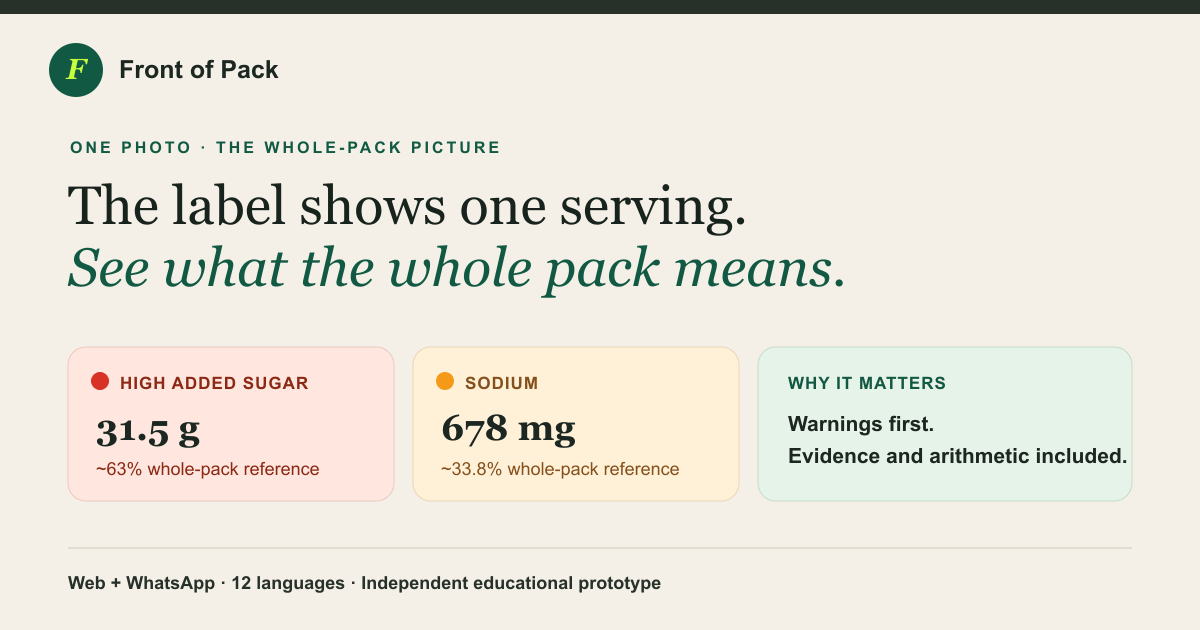
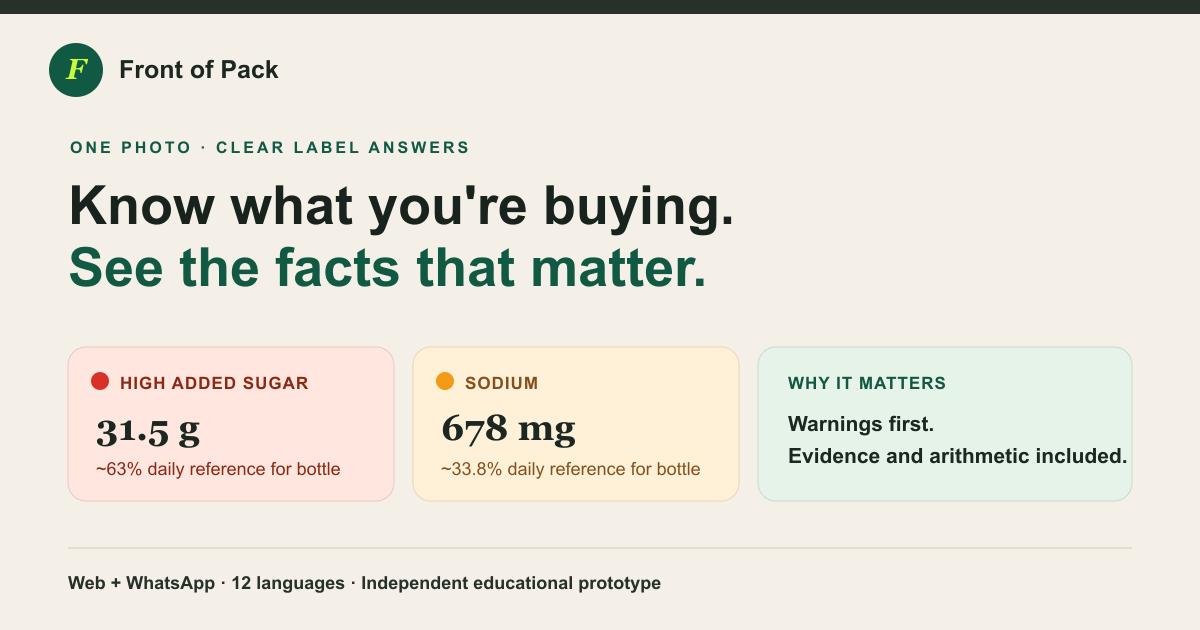
improve submission homepage positioning

diff --git a/src/app/globals.css b/src/app/globals.css
@@ -1,27 +1,36 @@
 @import "tailwindcss";
 
-:root { --ink:#19251f; --muted:#5f6b64; --paper:#f7f4ec; --cream:#eee8db; --green:#174f3b; --lime:#d6ff56; --orange:#e9602b; --line:rgba(25,37,31,.16); }
+:root { --ink:#19251f; --muted:#5f6b64; --paper:#f7f4ec; --cream:#eee8db; --green:#174f3b; --lime:#d6ff56; --orange:#e9602b; --line:rgba(25,37,31,.16); --font-ui:system-ui,-apple-system,"Segoe UI",sans-serif; }
 * { box-sizing:border-box; }
 html { overflow-x:clip; scroll-behavior:smooth; }
-body { margin:0; overflow-x:clip; background:var(--paper); color:var(--ink); font-family:Arial,Helvetica,sans-serif; -webkit-font-smoothing:antialiased; }
+body { margin:0; overflow-x:clip; background:var(--paper); color:var(--ink); font-family:var(--font-ui); -webkit-font-smoothing:antialiased; }
 a { color:inherit; text-decoration:none; }
 button,input,select { font:inherit; }
 textarea { font:inherit; }
 button,select,label { -webkit-tap-highlight-color:transparent; }
 .site-header { align-items:center; display:flex; justify-content:space-between; margin:auto; max-width:1280px; padding:22px 28px; }
 .brand,.footer-brand { align-items:center; display:flex; font-size:17px; font-weight:800; gap:10px; letter-spacing:-.02em; }
-.brand-mark { align-items:center; background:var(--green); border-radius:50% 50% 44% 56%; color:var(--lime); display:inline-flex; font-family:Georgia,serif; font-size:19px; font-style:italic; height:36px; justify-content:center; transform:rotate(-5deg); width:36px; }
-nav { align-items:center; display:flex; font-size:14px; font-weight:700; gap:32px; }
+.brand-mark { align-items:center; background:var(--green); border-radius:50%; color:var(--lime); display:inline-flex; font-size:18px; font-style:italic; height:36px; justify-content:center; width:36px; }
+nav { align-items:center; display:flex; font-size:14px; font-weight:700; }
 nav a { border-bottom:1px solid transparent; padding:8px 0; }
 nav a:hover { border-bottom-color:var(--ink); }
-.nav-action { background:var(--green); border:0!important; border-radius:999px; color:white; padding:11px 19px; }
-.hero { display:grid; gap:clamp(42px,7vw,100px); grid-template-columns:minmax(0,1.05fr) minmax(390px,.75fr); margin:auto; max-width:1280px; min-height:680px; padding:74px 28px 94px; }
-.hero-copy { align-self:center; }
+.nav-action { align-items:center; background:var(--green); border:0!important; border-radius:999px; color:white; display:flex; gap:9px; padding:11px 18px; }
+.whatsapp-icon { flex:0 0 auto; height:21px; width:21px; }.whatsapp-icon-bubble { fill:var(--lime); }.whatsapp-icon-phone { fill:var(--green); }
+.hero { align-items:center; display:grid; gap:clamp(54px,6vw,82px); grid-template-columns:minmax(0,1fr) minmax(410px,.76fr); margin:auto; max-width:1280px; min-height:650px; padding:64px 28px 88px; }
+.hero-copy { max-width:690px; }
 .eyebrow { align-items:center; color:var(--green); display:flex; font-size:12px; font-weight:800; gap:10px; letter-spacing:.13em; margin:0 0 19px; text-transform:uppercase; }
 .eyebrow span { background:var(--orange); border-radius:50%; height:7px; width:7px; }
-h1 { font-family:Georgia,"Times New Roman",serif; font-size:clamp(55px,6.5vw,92px); font-weight:400; letter-spacing:-.055em; line-height:.96; margin:0; max-width:780px; }
-h1 em { color:var(--green); font-weight:400; }
+h1 { font-family:var(--font-ui); font-size:clamp(52px,5.6vw,78px); font-weight:650; letter-spacing:-.06em; line-height:.98; margin:0; max-width:720px; }
+h1 em { color:var(--green); font-style:normal; font-weight:650; }
 .hero-intro { color:var(--muted); font-size:clamp(18px,2vw,22px); line-height:1.55; margin:32px 0; max-width:640px; }
+.hero-actions { align-items:center; display:flex; flex-wrap:wrap; gap:18px; margin:0 0 30px; }
+.whatsapp-primary { align-items:center; background:var(--green); border-radius:14px; box-shadow:0 12px 30px rgba(23,79,59,.18); color:white; display:flex; gap:11px; min-height:58px; padding:11px 18px; transition:transform .18s ease,box-shadow .18s ease; }
+.whatsapp-primary:hover { box-shadow:0 16px 34px rgba(23,79,59,.25); transform:translateY(-2px); }
+.whatsapp-primary .whatsapp-icon { height:23px; width:23px; }
+.whatsapp-primary>span { font-size:14px; font-weight:750; }
+.web-secondary { align-items:center; border-bottom:1px solid var(--line); display:flex; font-size:12px; font-weight:750; gap:7px; padding:8px 0; }
+.down-arrow { fill:none; height:15px; stroke:currentColor; stroke-linecap:round; stroke-linejoin:round; stroke-width:2; width:15px; }
+.web-secondary:hover { border-bottom-color:var(--green); color:var(--green); }
 .trust-row { border-top:1px solid var(--line); display:flex; flex-wrap:wrap; gap:12px 28px; padding-top:22px; }
 .trust-row span { font-size:13px; font-weight:700; }
 .trust-row span::before { color:var(--orange); content:"✓"; margin-right:8px; }
@@ -29,7 +38,7 @@ h1 em { color:var(--green); font-weight:400; }
 .upload-card::before { background:var(--lime); border-radius:18px; content:""; height:96%; left:14px; position:absolute; top:18px; transform:rotate(3deg); width:98%; z-index:-1; }
 .card-heading { align-items:flex-start; display:flex; justify-content:space-between; margin-bottom:28px; }
 .step-label { color:var(--orange); font-size:11px; font-weight:800; letter-spacing:.13em; margin:0 0 5px; text-transform:uppercase; }
-.card-heading h2 { font-family:Georgia,serif; font-size:28px; font-weight:400; margin:0; }
+.card-heading h2 { font-family:var(--font-ui); font-size:27px; font-weight:650; letter-spacing:-.035em; margin:0; }
 .private-pill { background:#edf6f0; border-radius:999px; color:var(--green); font-size:10px; font-weight:800; padding:7px 10px; text-transform:uppercase; }
 .language-field { display:block; margin-bottom:19px; }
 .language-field>span { display:block; font-size:13px; font-weight:800; margin-bottom:7px; }
@@ -49,10 +58,10 @@ h1 em { color:var(--green); font-weight:400; }
 .primary-button svg { fill:none; height:18px; stroke:currentColor; stroke-linecap:round; stroke-linejoin:round; stroke-width:1.8; width:18px; }
 .upload-note { color:var(--muted); font-size:10px; margin:10px 0 0; text-align:center; }
 .analysis-message { color:var(--green); font-size:12px; font-weight:700; margin:12px 0 0; text-align:center; }
-.demo-row { display:grid; gap:8px; grid-column:1/-1; grid-template-columns:auto repeat(4,1fr); margin-top:-22px; }.demo-row>span { align-self:center; color:var(--muted); font-size:11px; font-weight:800; text-transform:uppercase; }.demo-row button { background:white; border:1px solid var(--line); border-radius:10px; cursor:pointer; display:grid; gap:3px; padding:10px 12px; text-align:left; }.demo-row button:hover { border-color:var(--green); }.demo-row small { color:var(--muted); }
+.demo-row { display:grid; gap:8px; grid-column:1/-1; grid-template-columns:repeat(4,1fr); margin-top:-22px; }.demo-heading { align-items:end; display:flex; gap:12px; grid-column:1/-1; justify-content:space-between; margin-bottom:3px; }.demo-heading strong { font-size:13px; }.demo-heading span { color:var(--muted); font-size:11px; }.demo-row button { background:white; border:1px solid var(--line); border-radius:10px; cursor:pointer; display:grid; gap:3px; padding:10px 12px; text-align:left; }.demo-row button:hover { border-color:var(--green); }.demo-row small { color:var(--muted); }
 .demo-thumb { background-position:center; background-size:cover; border-radius:6px; height:54px; width:100%; }
 .analysis-result { background:white; border:1px solid var(--line); border-radius:24px; grid-column:1/-1; margin-top:-35px; padding:clamp(24px,4vw,48px); }
-.analysis-result h2 { font-family:Georgia,serif; font-size:clamp(30px,4vw,48px); font-weight:400; margin:0; }
+.analysis-result h2 { font-family:var(--font-ui); font-size:clamp(30px,4vw,48px); font-weight:650; letter-spacing:-.04em; margin:0; }
 .analysis-demo-input { background:#f5f2ea; border:1px solid var(--line); border-radius:14px; display:grid; gap:8px; margin:20px 0 0; max-width:440px; padding:12px; }
 .analysis-demo-input-frame { height:min(52vh,500px); position:relative; width:100%; }
 .analysis-demo-input-frame img { object-fit:contain; }
@@ -61,7 +70,7 @@ h1 em { color:var(--green); font-weight:400; }
 .analysis-result-stats { display:flex; flex-wrap:wrap; gap:8px; margin-top:16px; }.analysis-result-stats span { background:#f1efe8; border-radius:999px; color:var(--muted); font-size:10px; font-weight:700; padding:7px 10px; }.analysis-result-stats b { color:var(--ink); }
 .analysis-truncated { background:#fff1d8; border-radius:8px; color:#85501c; font-size:12px; font-weight:700; padding:10px 12px; }
 .analysis-callout { background:#edf6f0; border-left:4px solid var(--green); border-radius:8px; color:var(--ink); font-size:16px; line-height:1.55; margin:24px 0 0; padding:15px 17px; }
-.analysis-verdict { color:var(--ink)!important; display:grid; font-family:Georgia,serif; font-size:20px!important; gap:5px; margin:20px 0 0; }.analysis-verdict strong { color:var(--orange); font-family:Arial,sans-serif; font-size:10px; letter-spacing:.1em; text-transform:uppercase; }
+.analysis-verdict { color:var(--ink)!important; display:grid; font-size:20px!important; gap:5px; margin:20px 0 0; }.analysis-verdict strong { color:var(--orange); font-size:10px; letter-spacing:.1em; text-transform:uppercase; }
 .analysis-indicator { border-radius:10px; display:grid; gap:5px; margin-top:18px; padding:14px; }.analysis-indicator strong { font-size:12px; letter-spacing:.06em; }.analysis-indicator span { font-size:14px; line-height:1.45; }.indicator-needs_attention { background:#ffe7df; color:#8b2915; }.indicator-some_caution { background:#fff1d8; color:#85501c; }.indicator-no_major_concern { background:#e5f3e9; color:var(--green); }.indicator-not_enough_information { background:#efede8; color:var(--muted); }.analysis-profile { margin:0!important; }
 .analysis-check-strip { display:grid; gap:6px; grid-template-columns:repeat(4,1fr); margin-top:18px; }.analysis-check-strip span { align-items:center; background:#f1efe8; border-radius:8px; display:flex; font-size:12px; gap:6px; justify-content:space-between; padding:9px; }.analysis-check-strip b { font-size:10px; }.analysis-check-strip .check-alert { background:#fff0df; color:#9a4d24; }.analysis-check-strip .check-pass { background:#edf6f0; color:var(--green); }.analysis-check-strip .check-unknown { color:var(--muted); }
 .analysis-items { display:grid; gap:18px; grid-template-columns:repeat(auto-fit,minmax(280px,1fr)); margin:30px 0; }
@@ -70,7 +79,7 @@ h1 em { color:var(--green); font-weight:400; }
 .analysis-item-heading>span { color:var(--orange); font-size:11px; font-weight:800; text-transform:uppercase; }
 .analysis-badges { display:flex; flex-wrap:wrap; gap:6px; justify-content:flex-end; }
 .analysis-badges b { background:#edf0ea; border-radius:999px; color:var(--muted); font-size:9px; font-weight:800; padding:5px 8px; text-transform:uppercase; }
-.analysis-items h3 { font-family:Georgia,serif; font-size:25px; font-weight:400; margin:16px 0 8px; }
+.analysis-items h3 { font-size:25px; font-weight:650; letter-spacing:-.03em; margin:16px 0 8px; }
 .analysis-items p { color:var(--muted); font-size:13px; line-height:1.55; }
 .shopper-indicators { display:grid; gap:10px; margin-top:18px; }
 .shopper-indicator { border-radius:10px; display:grid; gap:5px; padding:14px 15px; }
@@ -93,6 +102,9 @@ h1 em { color:var(--green); font-weight:400; }
 .rating-card summary { color:var(--green); cursor:pointer; font-size:11px; font-weight:800; }
 .rating-card ul { list-style:none; margin:8px 0 0; padding:0; }
 .rating-card li { color:var(--muted); font-size:10px; line-height:1.45; padding:3px 0; }
+.rating-details { background:#f3f0e8; border:1px solid var(--line); border-radius:10px; margin-top:18px; padding:12px 14px; }
+.rating-details>summary { color:var(--green); cursor:pointer; font-size:11px; font-weight:800; }
+.rating-details>div { display:grid; gap:7px; margin-top:12px; }.rating-details strong { font-size:14px; }.rating-details p,.rating-details span { color:var(--muted); font-size:11px; margin:0; }.rating-details ul { list-style:none; margin:0; padding:0; }.rating-details li { color:var(--muted); font-size:10px; line-height:1.45; padding:2px 0; }
 .analysis-summary { font-size:15px!important; }
 .analysis-key-findings { border-top:1px solid var(--line); margin-top:20px; padding-top:18px; }
 .analysis-key-findings h4,.analysis-evidence h4 { font-size:11px; letter-spacing:.1em; margin:0 0 12px; text-transform:uppercase; }
@@ -126,12 +138,12 @@ h1 em { color:var(--green); font-weight:400; }
 .analysis-disclaimer { color:var(--muted); display:block; line-height:1.55; }
 .section { margin:auto; max-width:1280px; padding:105px 28px; }
 .journey { border-top:1px solid var(--line); display:grid; gap:80px; grid-template-columns:.8fr 1.2fr; }
-.section-heading h2,.action-intro h2,.whatsapp-copy h2 { font-family:Georgia,serif; font-size:clamp(38px,4.4vw,62px); font-weight:400; letter-spacing:-.04em; line-height:1.04; margin:0; }
+.section-heading h2,.action-intro h2,.whatsapp-copy h2 { font-size:clamp(38px,4.4vw,62px); font-weight:650; letter-spacing:-.05em; line-height:1.04; margin:0; }
 .section-heading>p:last-child,.split-heading>p,.action-intro>p:last-child,.whatsapp-copy>p { color:var(--muted); font-size:16px; line-height:1.7; margin:24px 0 0; max-width:520px; }
 .steps { list-style:none; margin:0; padding:0; }
 .steps li { border-top:1px solid var(--line); display:grid; gap:25px; grid-template-columns:46px 1fr; padding:25px 0; }
 .steps li:last-child { border-bottom:1px solid var(--line); }
-.steps li>span,.category-number { color:var(--orange); font-family:Georgia,serif; font-size:15px; font-style:italic; }
+.steps li>span,.category-number { color:var(--orange); font-size:15px; font-style:italic; }
 .steps h3,.category-grid h3,.action-list h3 { font-size:19px; margin:0 0 8px; }
 .steps p,.category-grid p,.action-list p { color:var(--muted); font-size:14px; line-height:1.6; margin:0; }
 .coverage { background:var(--cream); max-width:none; padding-left:max(28px,calc((100vw - 1224px)/2)); padding-right:max(28px,calc((100vw - 1224px)/2)); }
@@ -140,7 +152,7 @@ h1 em { color:var(--green); font-weight:400; }
 .output-showcase { border-top:1px solid var(--line); }
 .output-grid { display:grid; gap:12px; grid-template-columns:repeat(3,1fr); margin-top:50px; }
 .output-grid article { background:white; border:1px solid var(--line); border-radius:15px; min-height:190px; padding:22px; }
-.output-grid article>span { color:var(--orange); font-family:Georgia,serif; font-size:13px; font-style:italic; }
+.output-grid article>span { color:var(--orange); font-size:13px; font-style:italic; }
 .output-grid h3 { font-size:18px; margin:45px 0 8px; }.output-grid p { color:var(--muted); font-size:13px; line-height:1.55; margin:0; }
 .category-grid { display:grid; gap:1px; grid-template-columns:repeat(4,1fr); list-style:none; margin:62px 0 0; padding:0; }
 .category-grid li { background:rgba(255,255,255,.55); min-height:210px; padding:25px; }
@@ -153,7 +165,7 @@ h1 em { color:var(--green); font-weight:400; }
 .action-intro>p:last-child { color:rgba(255,255,255,.65); }
 .action-list article { align-items:start; border-top:1px solid rgba(255,255,255,.2); display:grid; gap:25px; grid-template-columns:42px 1fr; padding:24px 0; }
 .action-list article:last-child { border-bottom:1px solid rgba(255,255,255,.2); }
-.action-list article>span { color:var(--lime); font-family:Georgia,serif; font-style:italic; }
+.action-list article>span { color:var(--lime); font-style:italic; }
 .action-list p { color:rgba(255,255,255,.65); }
 .whatsapp { align-items:center; display:grid; gap:clamp(50px,9vw,130px); grid-template-columns:.8fr 1.2fr; }
 .phone-preview { background:#e5ded0; border:8px solid var(--ink); border-radius:38px; box-shadow:18px 20px 0 var(--lime); height:450px; margin:auto; max-width:260px; padding:18px 14px; width:100%; }
@@ -165,31 +177,33 @@ h1 em { color:var(--green); font-weight:400; }
 .message.lines i { background:#c7ccc8; border-radius:2px; display:block; height:5px; margin:6px 0; }
 .message.lines i:nth-child(2) { width:85%; }.message.lines i:nth-child(3) { width:60%; }
 .result-message { display:grid; gap:5px; width:100%; }.result-message b { font-size:10px; }.result-message .preview-red { color:#8b2915; }.result-message .preview-amber { color:#9a5b12; }.result-message span { color:var(--ink); font-size:10px; }.result-message small { border-top:1px solid var(--line); color:var(--muted); margin-top:5px; padding-top:7px; }
-.status-chip { background:var(--cream); border-radius:999px; display:inline-block; font-size:12px; font-weight:800; margin-top:24px; padding:10px 14px; }
+.status-chip { align-items:center; background:var(--green); border-radius:999px; color:white; display:inline-flex; font-size:13px; font-weight:800; gap:8px; margin-top:24px; padding:13px 18px; }
+.status-chip .whatsapp-icon { height:20px; width:20px; }
 footer { align-items:center; border-top:1px solid var(--line); display:grid; gap:30px; grid-template-columns:.7fr 1.8fr .5fr; margin:auto; max-width:1280px; padding:48px 28px; }
 footer p { color:var(--muted); font-size:11px; line-height:1.6; margin:0; }
 footer>a { font-size:12px; font-weight:800; text-align:right; }
 .site-footer .footer-brand { color:var(--ink); text-decoration:none; }
+.footer-links { display:flex; flex-wrap:wrap; font-size:11px; gap:8px 14px; justify-content:flex-end; }.footer-links a { font-weight:800; }.footer-links a:hover { color:var(--green); }
 .anchor-target { display:block; position:relative; top:-24px; }
 @media (max-width:900px) {
-  nav a:not(.nav-action) { display:none; }
   .hero { grid-template-columns:1fr; padding-top:48px; }
   .hero-copy { text-align:center; }.hero-intro { margin-left:auto; margin-right:auto; }.eyebrow,.trust-row { justify-content:center; }
   .upload-card { margin:auto; max-width:540px; width:100%; }
-  .demo-row { grid-template-columns:repeat(2,1fr); }.demo-row>span { grid-column:1/-1; text-align:center; }
+  .demo-row { grid-template-columns:repeat(2,1fr); }
   .journey,.actions { gap:55px; grid-template-columns:1fr; }
   .split-heading { align-items:start; flex-direction:column; gap:24px; }.category-grid,.output-grid { grid-template-columns:repeat(2,1fr); }
   footer { grid-template-columns:1fr; text-align:center; }.footer-brand { justify-content:center; }footer>a { text-align:center; }
 }
 @media (max-width:600px) {
   .site-header { padding:16px 18px; }.nav-action { padding:10px 14px; }
-  .hero { gap:40px; min-height:auto; padding:42px 18px 75px; }h1 { font-size:48px; }.hero-intro { font-size:17px; margin:24px 0; }
+  .hero { gap:40px; min-height:auto; padding:42px 18px 75px; }h1 { font-size:44px; }.hero-intro { font-size:17px; margin:24px 0; }
+  .hero-actions { flex-direction:column; gap:10px; margin-bottom:26px; }.whatsapp-primary { justify-content:center; width:100%; }.web-secondary { align-self:center; }
   .trust-row { align-items:center; flex-direction:column; gap:10px; }.card-heading { gap:10px; }.private-pill { white-space:nowrap; }
   .analysis-key-findings li { grid-template-columns:1fr; }
   .analysis-item-heading { align-items:flex-start; flex-direction:column; }
   .analysis-badges { justify-content:flex-start; }
   .analysis-check-strip { grid-template-columns:repeat(2,1fr); }
-  .demo-row { grid-template-columns:1fr; margin-top:-38px; }.demo-row>span { text-align:center; }
+  .demo-row { grid-template-columns:1fr; margin-top:-38px; }.demo-heading { align-items:center; flex-direction:column; text-align:center; }
   .section { padding:78px 18px; }.journey { gap:45px; }.category-grid,.output-grid { grid-template-columns:1fr; margin-top:40px; }
   .category-grid li { min-height:170px; }.category-grid h3 { margin-top:36px; }
   .whatsapp { grid-template-columns:1fr; }.phone-preview { height:380px; max-width:230px; }.whatsapp-copy { text-align:center; }.whatsapp-copy .eyebrow { justify-content:center; }

diff --git a/src/app/page.tsx b/src/app/page.tsx
@@ -4,20 +4,28 @@ import { HOME_METADATA, WHATSAPP_URL } from "@/site-metadata";
 
 export const metadata: Metadata = HOME_METADATA;
 
+function WhatsAppIcon() {
+  return <svg className="whatsapp-icon" viewBox="0 0 24 24" aria-hidden="true"><path className="whatsapp-icon-bubble" d="M12 2.5a9.5 9.5 0 0 0-8.1 14.46L2.75 21.3l4.45-1.1A9.5 9.5 0 1 0 12 2.5Z" /><path className="whatsapp-icon-phone" d="M8.1 7.5c.4-.5 1-.4 1.3.1l1 2c.2.4.1.8-.2 1.1l-.7.5c.8 1.5 1.9 2.6 3.4 3.3l.5-.7c.3-.4.7-.5 1.1-.3l2 1c.5.3.6.9.2 1.3-.8.9-1.9 1.2-3 .9-3.2-.8-5.7-3.3-6.5-6.5-.3-1 .1-2 1-2.7Z" /></svg>;
+}
+
+function DownArrowIcon() {
+  return <svg className="down-arrow" viewBox="0 0 24 24" aria-hidden="true"><path d="M12 4v15M6.5 13.5 12 19l5.5-5.5" /></svg>;
+}
+
 const categories = [
-  ["Nutrition reality", "Absolute values plus printed or clearly calculated %RDA, scoped to 100 g/ml, an exact serving, or the verified whole pack."],
-  ["Diet and allergens", "Veg marks, allergens, dietary-source uncertainty and relevant ingredients—without inventing vegan, halal or safety certification."],
-  ["Claims and evidence", "Visible package claims checked against label facts and sufficiently matched sources, with package and online provenance kept separate."],
-  ["Citizen next steps", "Open decision logic, exact demonstration registry checks and an editable draft for an appropriate verified consumer-service route."],
+  ["Nutrition that adds up", "See sugar, sodium, fat and other useful values for one serving and the total quantity."],
+  ["Ingredients that matter", "Spot allergens, vegetarian markings, additives and dietary-source uncertainty without guesswork."],
+  ["Claims worth checking", "Compare visible marketing claims with the label and reliable information for the exact product."],
+  ["Useful next steps", "Inspect the method, try an identifier lookup or prepare confirmed facts for an official service."],
 ];
 
 const outputFeatures = [
-  ["Every warning", "All independently useful warnings stay visible: nutrients, allergens, statutory cautions, ingredients and claim conflicts."],
-  ["Absolute + %RDA", "See the amount and percentage together. Printed %RDA wins; calculated values are explicitly labelled and sourced."],
-  ["Rating you can reproduce", "A fixed 10-point start and published deductions show exactly why the experimental score changed."],
-  ["Full analysis", "Useful positives, ingredients, additives, diet signals and uncertainties follow the warnings without repeating them."],
-  ["Visible-claim audit", "A Claims section appears only when the submitted image visibly contains a claim."],
-  ["Evidence and action", "Inspect source match, citations, limitations, formulas and the verified next step when one applies."],
+  ["Warnings first", "Important nutrition, allergen, ingredient and claim concerns appear before supporting detail."],
+  ["Values in context", "Compare one serving with the total quantity, using the label's own values whenever possible."],
+  ["A rating you can inspect", "See each fixed deduction and the arithmetic behind the experimental rating."],
+  ["Ingredients and diet", "Review allergens, additives, vegetarian markings and dietary-source uncertainty."],
+  ["Visible claims checked", "Claims are assessed only when they can actually be seen in the submitted photo."],
+  ["Evidence included", "Sources, limitations and useful next steps remain available without crowding the warnings."],
 ];
 
 export default function Home() {
@@ -25,51 +33,46 @@ export default function Home() {
     <main>
       <header className="site-header">
         <a className="brand" href="#top" aria-label="Front of Pack home"><span className="brand-mark" aria-hidden="true">F</span><span>Front of Pack</span></a>
-        <nav aria-label="Primary navigation"><a href="#how-it-works">How it works</a><a href="#what-you-get">What you get</a><a href="/how-we-decide">How we decide</a><a className="nav-action" href="#upload">Check a label</a></nav>
+        <nav aria-label="Primary navigation"><a className="nav-action" href={WHATSAPP_URL} target="_blank" rel="noreferrer"><WhatsAppIcon /><span>WhatsApp</span></a></nav>
       </header>
 
       <section className="hero" id="top">
         <div className="hero-copy">
-          <p className="eyebrow"><span /> India’s label rules, made useful at the shelf.</p>
-          <h1>The label shows one serving. <em>See what the whole pack means.</em></h1>
-          <p className="hero-intro">Upload one photo to see what matters across the whole pack—in your language.</p>
-          <div className="trust-row" aria-label="Service highlights"><span>Whole-pack numbers</span><span>Warnings with reasons</span><span>Works on WhatsApp</span><span>See every rule</span></div>
+          <p className="eyebrow"><span /> Required label information, made usable</p>
+          <h1>Know what you’re buying. <em>See the facts that matter.</em></h1>
+          <p className="hero-intro">Product labels carry information citizens need, but understanding it is still difficult. Send a photo on WhatsApp for clear nutrition, ingredient, allergen and claim warnings—with evidence.</p>
+          <div className="hero-actions">
+            <a className="whatsapp-primary" href={WHATSAPP_URL} target="_blank" rel="noreferrer"><WhatsAppIcon /><span>Send a product photo</span></a>
+            <a className="web-secondary" href="#upload">Prefer the website? Upload here <DownArrowIcon /></a>
+          </div>
+          <div className="trust-row" aria-label="Service highlights"><span>Photos deleted after analysis</span><span>Exact-product web search</span><span>12 languages</span><span>Evidence included</span></div>
         </div>
 
         <UploadAnalyser />
       </section>
 
       <section className="journey section" id="how-it-works" aria-labelledby="journey-title">
-        <div className="section-heading"><p className="eyebrow">The public-service gap</p><h2 id="journey-title">Rules exist. Applying them while shopping is hard.</h2><p>Front of Pack turns FSSAI-style nutrition and label information into an evidence-backed citizen journey: understand, verify, then act.</p></div>
+        <div className="section-heading"><p className="eyebrow">The public-service gap</p><h2 id="journey-title">Disclosure exists. Understanding should not be the hard part.</h2><p>India’s labelling rules put important information on products. Front of Pack helps citizens interpret it at the moment of purchase without presenting itself as a government service.</p></div>
         <ol className="steps">
-          <li><span>01</span><div><h3>Share the pack</h3><p>Upload one clear image containing one product or a shelf of up to six.</p></div></li>
-          <li><span>02</span><div><h3>One response researches it</h3><p>The system reads the photo and exact-product sources; published rules calculate RDA, whole-pack, claim, diet and allergen signals.</p></div></li>
-          <li><span>03</span><div><h3>See what matters</h3><p>Warnings come first. Rating arithmetic, claims, evidence and the next step remain one tap away.</p></div></li>
+          <li><span>01</span><div><h3>Send a product photo</h3><p>Photograph the label clearly and share it through WhatsApp.</p></div></li>
+          <li><span>02</span><div><h3>We read and search</h3><p>When needed, we search public web sources for reliable information about the exact product and keep it separate from what the photo shows.</p></div></li>
+          <li><span>03</span><div><h3>Get the important facts</h3><p>Warnings come first, followed by useful context, evidence and honest limitations.</p></div></li>
         </ol>
       </section>
 
-      <section className="output-showcase section" id="what-you-get" aria-labelledby="output-title">
-        <div className="section-heading split-heading"><div><p className="eyebrow">One response · complete picture</p><h2 id="output-title">Everything useful, without the wall of text</h2></div><p>Short, structured sections preserve breadth. Nothing material is hidden merely to keep the answer compact.</p></div>
+      <section className="output-showcase section" id="what-you-get" aria-labelledby="trust-title">
+        <div className="section-heading split-heading"><div><p className="eyebrow">What the result includes</p><h2 id="trust-title">The important answers, shown first</h2></div><p>Every result stays concise without hiding useful warnings, evidence or uncertainty.</p></div>
         <div className="output-grid">{outputFeatures.map(([name, detail], index) => <article key={name}><span>0{index + 1}</span><h3>{name}</h3><p>{detail}</p></article>)}</div>
       </section>
 
       <section className="coverage section" id="coverage" aria-labelledby="coverage-title">
-        <div className="section-heading split-heading"><div><p className="eyebrow">Current capabilities</p><h2 id="coverage-title">Four parts of a trustworthy decision</h2></div><p>Package facts remain primary. Online information is used only with an explicit product-match basis and retained citations.</p></div>
+        <div className="section-heading split-heading"><div><p className="eyebrow">What we look for</p><h2 id="coverage-title">The label, translated into useful decisions</h2></div><p>The photo remains the starting point. Reliable product information is used only when the exact match is clear.</p></div>
         <ul className="category-grid">{categories.map(([name, detail], index) => <li key={name} className={index === 0 ? "featured-category" : ""}><span className="category-number">0{index + 1}</span><h3>{name}</h3><p>{detail}</p></li>)}</ul>
       </section>
 
-      <section className="actions section" aria-labelledby="actions-title">
-        <div className="action-intro"><p className="eyebrow light">From evidence to action</p><h2 id="actions-title">Verify the decision or take the next step</h2><p>Inspect the calculation, check an identifier, or prepare facts for an official channel.</p></div>
-        <div className="action-list">
-          <article><span>01</span><div><h3><a href="/how-we-decide">Audit our decisions →</a></h3><p>See the RDA formulas, fixed rating deductions, claim tests and official sources.</p></div></article>
-          <article><span>02</span><div><h3><a href="/registry">Look up an identifier →</a></h3><p>Try an FSSAI or BIS number against demonstration data.</p></div></article>
-          <article><span>03</span><div><h3><a href="/grievance">Prepare confirmed facts →</a></h3><p>Create an editable draft for the appropriate official consumer service.</p></div></article>
-        </div>
-      </section>
-
       <section className="whatsapp section" aria-labelledby="whatsapp-title">
-        <div className="phone-preview" aria-hidden="true"><div className="phone-top"><span /><span /><span /></div><div className="message outgoing">Product photo</div><div className="message incoming result-message"><b className="preview-red">🔴 HIGH ADDED SUGAR</b><span>31.5 g · ~63% whole-pack RDA</span><b className="preview-amber">🟠 SODIUM</b><span>678 mg · ~33.8% whole-pack RDA</span><small>Rating 5/10 · 10 − 3 − 2 · Evidence retained</small></div></div>
-        <div className="whatsapp-copy"><p className="eyebrow">Live · WhatsApp</p><h2 id="whatsapp-title">The same useful answer, right where you shop.</h2><p>Send a photo immediately—English is the default. Choose another language once and future replies remember it.</p><a className="status-chip" href={WHATSAPP_URL} target="_blank" rel="noreferrer">Open WhatsApp · English default · 12 languages →</a></div>
+        <div className="phone-preview" aria-hidden="true"><div className="phone-top"><span /><span /><span /></div><div className="message outgoing">Product photo</div><div className="message incoming result-message"><b className="preview-red">🔴 HIGH ADDED SUGAR</b><span>31.5 g · ~63% daily reference for the bottle</span><b className="preview-amber">🟠 SODIUM</b><span>678 mg · ~33.8% daily reference for the bottle</span><small>Evidence and calculation included</small></div></div>
+        <div className="whatsapp-copy"><p className="eyebrow">Live on WhatsApp</p><h2 id="whatsapp-title">Useful answers, right where you shop.</h2><p>Send a product photo immediately. English is the default; choose another language once and future replies remember it.</p><a className="status-chip" href={WHATSAPP_URL} target="_blank" rel="noreferrer"><WhatsAppIcon /> Send a product photo</a></div>
       </section>
     </main>
   );

diff --git a/src/app/scan/upload-analyser.tsx b/src/app/scan/upload-analyser.tsx
@@ -129,15 +129,15 @@ export default function UploadAnalyser() {
   return (
     <>
       <form className="upload-card" id="upload" onSubmit={submit}>
-        <div className="card-heading"><div><p className="step-label">Start here</p><h2>Check a product label</h2></div><span className="private-pill">Temporary image</span></div>
+        <div className="card-heading"><div><p className="step-label">Live website analysis</p><h2>Upload a product photo</h2></div><span className="private-pill">Temporary image</span></div>
         <label className="language-field"><span>Response language</span><select name="language" value={language} onChange={(event) => changeLanguage(event.target.value as LanguageCode)}>{languages.map(([code, label]) => <option key={code} value={code}>{label}</option>)}</select><small>Your choice is remembered for next time.</small></label>
         <label className="drop-zone"><input type="file" name="image" required accept="image/jpeg,image/png,image/webp" onChange={(event) => setFileName(event.target.files?.[0]?.name ?? "")} /><span className="camera-icon"><CameraIcon /></span><strong>{fileName || "Take a photo or choose an image"}</strong><span>Show the label clearly · JPG, PNG or WebP · up to 12 MB</span></label>
-        <button type="submit" className="primary-button" disabled={pending} aria-describedby="upload-note">{pending ? "Analysing…" : "Analyse label"} {!pending && <ArrowIcon />}</button>
+        <button type="submit" className="primary-button" disabled={pending} aria-describedby="upload-note">{pending ? "Analysing…" : "Analyse product"} {!pending && <ArrowIcon />}</button>
         <p className="upload-note" id="upload-note">Your original image is validated, stored temporarily, then deleted after analysis.</p>
         <p className="analysis-message" aria-live="polite">{message}</p>
       </form>
       <div className="demo-row" aria-label="Cached demonstrations">
-        <span>Try instantly:</span>
+        <div className="demo-heading"><strong>Explore sample results</strong><span>Previously analysed examples · no new model call</span></div>
         {DEMO_LABELS.map((demo) => <button key={demo.id} type="button" onClick={() => {
           setResult(DEMO_RESULTS[demo.id]);
           setSelectedDemo(demo);
@@ -195,7 +195,6 @@ function AnalysisResultView({ result, demo }: { result: AnalysisResult; demo: De
             {indicator.origin === "engine" && indicator.ruleId && <a className="indicator-rule-link" href={`/how-we-decide#${indicator.ruleId}`}>How this was decided →</a>}
           </div>)}<p className="indicator-legend">Red is reserved for a high engine rule. Amber is evidence-backed context. Grey means there is not enough information to rate.</p></div>}
           <div className="analysis-overview">
-            <div className="rating-card"><small>Experimental rule-based rating</small><strong>{rating?.score === null || rating?.score === undefined ? ratingBand(null, checksRan) : `${rating.score}/10 · ${ratingBand(rating.score, checksRan)}`}</strong>{ratingRows.length ? <details><summary>{ratingArithmetic(rating?.score ?? null, ratingRows.map((deduction) => deduction.points))}</summary><ul>{ratingRows.map((deduction, index) => <li key={`${deduction.ruleId}-${index}`}>−{deduction.points}: {deduction.label}</li>)}</ul></details> : <span>{checksRan ? "Checks completed; no fixed deduction applied." : "Rating unavailable until a reproducible rule check can run."}</span>}</div>
             <div><small>Profile</small><strong>{item.profile?.length ? item.profile.map((tag) => tag.label).join(" · ") : "No reliable tags"}</strong></div>
             <div><small>{item.webResearchOutcome === "not_needed" ? "Image identification" : "Product match"}</small><strong>{productMatchConfidence(item)}</strong>{item.webMatchBasis && <span>{item.webMatchBasis}</span>}</div>
           </div>
@@ -208,6 +207,7 @@ function AnalysisResultView({ result, demo }: { result: AnalysisResult; demo: De
             const limitationFirst = status === "not_established" || status === "not_assessable";
             return <div className={`claim-status-${status}${engineClass}`} key={claim}><span>{claimStatusIcon(status, engineConfirmed)}</span><p>{limitationFirst ? <><strong>{audit.assessment}</strong><small>{claimStatusLabel(status, engineConfirmed)}</small><em>Printed claim: “{claim}”</em></> : <><strong>“{claim}”</strong><small>{claimStatusLabel(status, engineConfirmed)}</small>{audit.assessment && <em>{audit.assessment}</em>}</>}</p></div>;
           })}</div>}
+          <details className="rating-details"><summary>View experimental rating calculation</summary><div><strong>{rating?.score === null || rating?.score === undefined ? ratingBand(null, checksRan) : `${rating.score}/10 · ${ratingBand(rating.score, checksRan)}`}</strong>{ratingRows.length ? <><p>{ratingArithmetic(rating?.score ?? null, ratingRows.map((deduction) => deduction.points))}</p><ul>{ratingRows.map((deduction, index) => <li key={`${deduction.ruleId}-${index}`}>−{deduction.points}: {deduction.label}</li>)}</ul></> : <span>{checksRan ? "Checks completed; no fixed deduction applied." : "Rating unavailable until a reproducible rule check can run."}</span>}</div></details>
           {item.serviceRoute && <div className="analysis-next-step-card"><small>Verified next step</small><p>{item.serviceRoute.reason}</p><a className="analysis-next-step" href="/grievance">Prepare an editable draft →</a></div>}
           <details className="analysis-evidence">
             <summary>View full evidence</summary>

diff --git a/src/demo/results.ts b/src/demo/results.ts
@@ -3,7 +3,7 @@ import { attachDecisions } from "../engine/index.ts";
 
 const baseItem = (position: number, name: string, category: ProductAnalysis["category"]): ProductAnalysis => ({
   position,
-  identity: { nameAsPrinted: name, brandAsPrinted: "Demo Pack", variantAsPrinted: null, gtin: null, confidence: "high" },
+  identity: { nameAsPrinted: name, brandAsPrinted: "Demo Product", variantAsPrinted: null, gtin: null, confidence: "high" },
   category, nutrition: null, ingredientTokens: [], claimsAsPrinted: [],
   webResearchOutcome: "not_needed", webMatchEvidenceIds: [],
   webMatchConfidence: null, webMatchBasis: null,
@@ -233,13 +233,13 @@ cartBalaji.citations = [{ id: "c7", title: "Balaji Crunchem Cream & Onion Wafers
 export const DEMO_RESULTS: Record<string, AnalysisResult> = {
   alofrut: result([alofrut], "A 300 ml beverage demonstrates printed and whole-bottle RDA, ingredients and claim review."),
   haldirams: result([haldirams], "A front-only Haldiram’s pack triggers a provisional official-source lookup."),
-  bread: result([bread], "A real bread label supports whole-pack and allergen checks."),
+  bread: result([bread], "A real bread label supports total-quantity and allergen checks."),
   cart: result([cartBread, cartCocoa, cartBiscuit, cartKurkure, cartBalaji], "Five cart items analysed: bread, cocoa bar, biscuits and two savoury snacks."),
 };
 
 export const DEMO_LABELS = [
-  { id: "alofrut", label: "Sugar + RDA", detail: "Real pack · claims + additives", imageSrc: "/demo/alofrut-annar-aloevera.jpeg" },
-  { id: "bread", label: "Whole-pack reality", detail: "Real pack · RDA + allergens", imageSrc: "/demo/english-oven-fibre-up.jpeg" },
-  { id: "haldirams", label: "Front-only search", detail: "Real pack · online evidence", imageSrc: "/demo/haldirams-ratlami-sev.jpeg" },
+  { id: "alofrut", label: "Sugar and additives", detail: "Real product · label evidence", imageSrc: "/demo/alofrut-annar-aloevera.jpeg" },
+  { id: "bread", label: "Serving vs total", detail: "Real product · allergens", imageSrc: "/demo/english-oven-fibre-up.jpeg" },
+  { id: "haldirams", label: "Front-label photo", detail: "Real product · verified online", imageSrc: "/demo/haldirams-ratlami-sev.jpeg" },
   { id: "cart", label: "Five-item cart", detail: "User cart · cached result", imageSrc: "/demo/cart-five-items.jpeg" },
 ] as const;

diff --git a/tests/site-metadata.test.ts b/tests/site-metadata.test.ts
@@ -17,16 +17,24 @@ test("homepage share metadata uses absolute production URLs and a large preview 
   assert.equal(HOME_OG_IMAGE.type, "image/png");
   assert.equal(HOME_OG_IMAGE.width, 1200);
   assert.equal(HOME_OG_IMAGE.height, 630);
-  assert.match(HOME_SHARE_TITLE, /whole pack means/i);
-  assert.match(HOME_OG_IMAGE.alt, /whole-pack added sugar and sodium/i);
+  assert.match(HOME_SHARE_TITLE, /facts that matter/i);
+  assert.match(HOME_OG_IMAGE.alt, /added sugar and sodium/i);
   const serialized = JSON.stringify(HOME_METADATA);
   assert.match(serialized, /summary_large_image/);
-  assert.match(serialized, /twitter|whole-pack added sugar and sodium/i);
+  assert.match(serialized, /twitter|added sugar and sodium/i);
   assert.match(serialized, new RegExp(HOME_OG_IMAGE.url.replace(/[.*+?^${}()|[\]\\]/g, "\\$&")));
 });
 
 test("public WhatsApp CTA uses the configured live number", () => {
   assert.equal(WHATSAPP_URL, "https://wa.me/919325835971");
+  const homepage = readFileSync(fileURLToPath(new URL("../src/app/page.tsx", import.meta.url)), "utf8");
+  const heroEnd = homepage.indexOf("</section>", homepage.indexOf('className="hero"'));
+  const aboveFold = homepage.slice(homepage.indexOf('className="site-header"'), heroEnd);
+  assert.match(aboveFold, />WhatsApp</);
+  assert.match(aboveFold, /Send a product photo/);
+  assert.match(aboveFold, /Exact-product web search/);
+  assert.doesNotMatch(aboveFold, /Primary channel|How it works|What you get|How we decide/);
+  assert.ok((aboveFold.match(/href=\{WHATSAPP_URL\}/g) ?? []).length >= 2);
 });
 
 test("committed Open Graph image is a compact 1200 by 630 PNG", () => {

diff --git a/src/site-metadata.ts b/src/site-metadata.ts
@@ -2,15 +2,15 @@ import type { Metadata } from "next";
 
 export const SITE_ORIGIN = "https://front-of-pack.front-of-pack-jobs-worker.workers.dev";
 export const WHATSAPP_URL = "https://wa.me/919325835971";
-export const SITE_TITLE = "Front of Pack — Understand a product label from one photo";
-export const SITE_DESCRIPTION = "See whole-pack nutrition, warnings, ingredients, claims and the evidence behind them on web or WhatsApp.";
-export const HOME_SHARE_TITLE = "The label shows one serving. See what the whole pack means.";
+export const SITE_TITLE = "Front of Pack — Understand a product label on WhatsApp";
+export const SITE_DESCRIPTION = "Send a product photo on WhatsApp and get clear nutrition, ingredient, allergen and claim warnings with supporting evidence.";
+export const HOME_SHARE_TITLE = "Know what you’re buying. See the facts that matter.";
 export const HOME_CANONICAL_URL = `${SITE_ORIGIN}/`;
 export const HOME_OG_IMAGE = {
   url: `${SITE_ORIGIN}/og.png`,
   width: 1200,
   height: 630,
-  alt: "Front of Pack example showing whole-pack added sugar and sodium findings",
+  alt: "Front of Pack example showing added sugar and sodium findings for the total quantity",
   type: "image/png",
 } as const;
 

diff --git a/src/app/layout.tsx b/src/app/layout.tsx
@@ -12,7 +12,7 @@ export const metadata: Metadata = {
 export default function RootLayout({ children }: LayoutProps<"/">) {
   return (
     <html lang="en">
-      <body>{children}<footer className="site-footer"><Link className="footer-brand" href="/"><span className="brand-mark" aria-hidden="true">F</span><strong>Front of Pack</strong></Link><p>Front of Pack is an independent consumer-information prototype. It is not affiliated with or endorsed by any government authority. Information is educational, not medical or legal advice.</p><Link href="/how-we-decide">How we decide →</Link></footer></body>
+      <body>{children}<footer className="site-footer"><Link className="footer-brand" href="/"><span className="brand-mark" aria-hidden="true">F</span><strong>Front of Pack</strong></Link><p>Front of Pack is an independent consumer-information prototype. It is not affiliated with or endorsed by any government authority. Information is educational, not medical or legal advice.</p><nav className="footer-links" aria-label="Optional prototype links"><Link href="/how-we-decide">Methodology</Link><Link href="/registry">Registry demo</Link><Link href="/grievance">Grievance draft</Link></nav></footer></body>
     </html>
   );
 }
